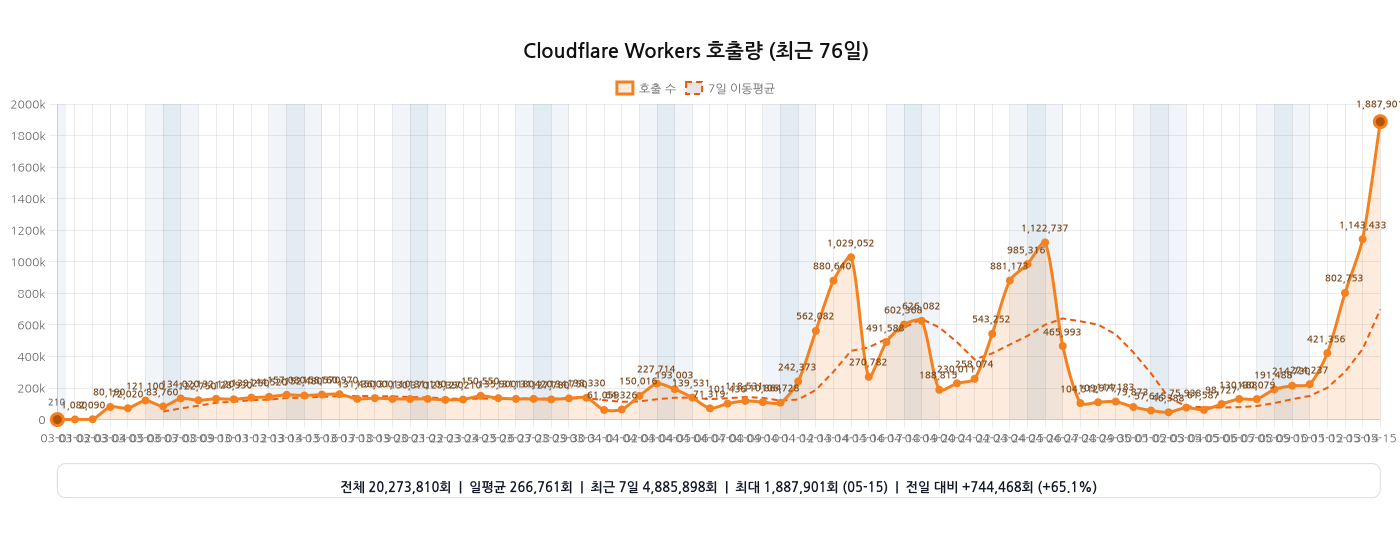
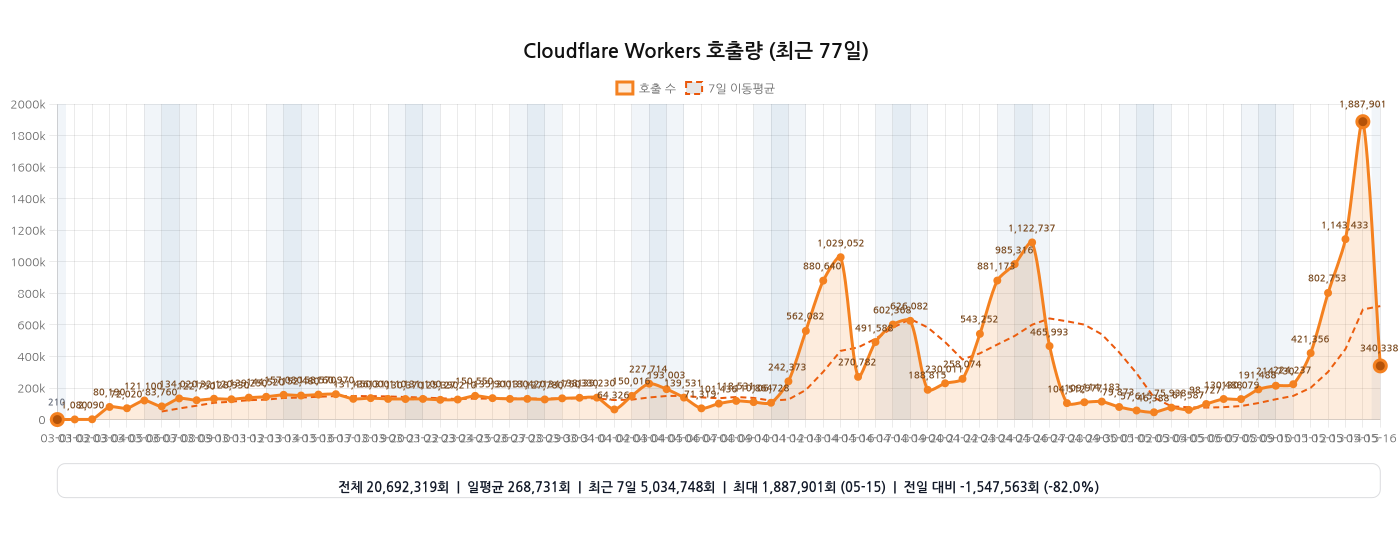
chore: 워커 호출량 그래프 자동 갱신

Changed region(s): [[0.0614, 0.1821, 1.0, 0.7893], [0.2457, 0.85, 0.7986, 0.8804]]

diff --git a/README.md b/README.md
@@ -21,11 +21,11 @@
 **[실시간 서비스 상태 보기](https://aka-page.betteruptime.com/)**
 
 <!-- WORKERS_INVOCATIONS_CHART:START -->
-<h3>Cloudflare Workers 호출량 (2026-03-01 ~ 2026-05-15, 76일)</h3>
+<h3>Cloudflare Workers 호출량 (2026-03-01 ~ 2026-05-16, 77일)</h3>
 
-<img src="./assets/analytics/workers-invocations.png?v=2026-05-15T16:09:06.213Z" alt="Cloudflare Workers 호출량 그래프 (2026-03-01 ~ 2026-05-15)" width="100%">
+<img src="./assets/analytics/workers-invocations.png?v=2026-05-16T15:44:19.119Z" alt="Cloudflare Workers 호출량 그래프 (2026-03-01 ~ 2026-05-16)" width="100%">
 
-<sub>기준 워커: <code>daiso-mcp</code> · 마지막 갱신: 2026-05-16 01:09 KST</sub>
+<sub>기준 워커: <code>daiso-mcp</code> · 마지막 갱신: 2026-05-17 00:44 KST</sub>
 
 <!-- WORKERS_INVOCATIONS_CHART:END -->
 
